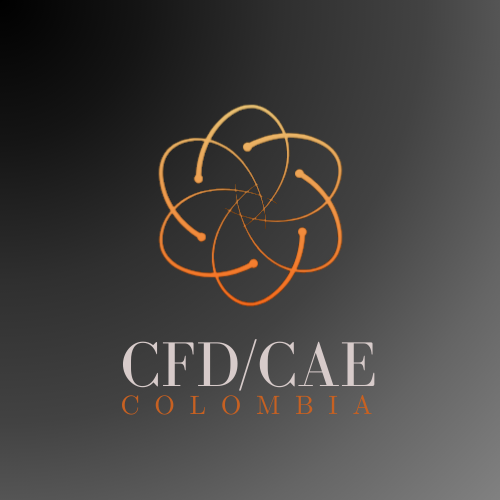
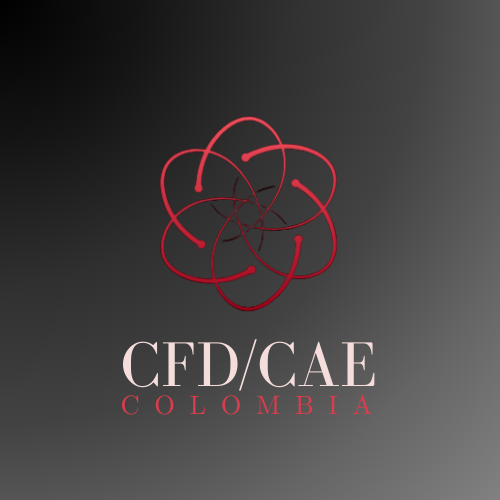
Updates to red

diff --git a/css/style.css b/css/style.css
@@ -40,7 +40,7 @@ header {
 
 .boton:hover, .boton2:hover, .boton3:hover, .boton4:hover, .boton5:hover {
     cursor: pointer;
-    background: linear-gradient(-45deg, #F52F57, #F79D5C);
+    background: linear-gradient(-45deg, #F52F57, #A20021);
 }
 
 .boton4:hover {
@@ -48,7 +48,7 @@ header {
 }
 
 .boton {
-    background-color: #F79D5C;
+    background-color: #A20021;
     border-radius: 50px;
     color: white;
     align-self: center;
@@ -96,7 +96,7 @@ header {
 
 .boton2 {
     align-self: self-end;
-    background-color: #F79D5C;
+    background-color: #A20021;
     border-radius: 50px;
     color: white;
     padding: 2.5% 8%;
@@ -167,7 +167,7 @@ header {
 
 .point {
     padding: 1.5% 4%;
-    background-color: #f5d64fbe;
+    background-color: #F52F57;
     color: white;
     font-weight: 700;
     font-size: 16px;
@@ -229,7 +229,7 @@ header {
 .boton3 {
     justify-content: flex-start;
     align-self: center;
-    background-color: #F3752B;
+    background-color: #a20010;
     border-radius: 50px;
     color: white;
     padding: 1% 5%;
@@ -247,7 +247,7 @@ footer {
     display: flex;
     flex-direction: row;
     height: 224px;
-    color: #F79D5C;
+    color: #A20021;
 }
 
 .footerMorado article {
@@ -268,7 +268,7 @@ footer {
     align-self: center;
     background-color: white;
     border-radius: 50px;
-    color:#F3752B;
+    color:#a20010;
     padding: 1% 2%;
     text-align: center;
     box-shadow: rgba(31, 26, 78, 0.35) 0px 5px 10px;
@@ -333,7 +333,7 @@ input[type="email"] {
 
 .boton5 {
     align-self: center;
-    background-color:#f79D5C;
+    background-color:#A20021;
     border-radius: 50px;
     color:white;
     padding: 3% 5%;
